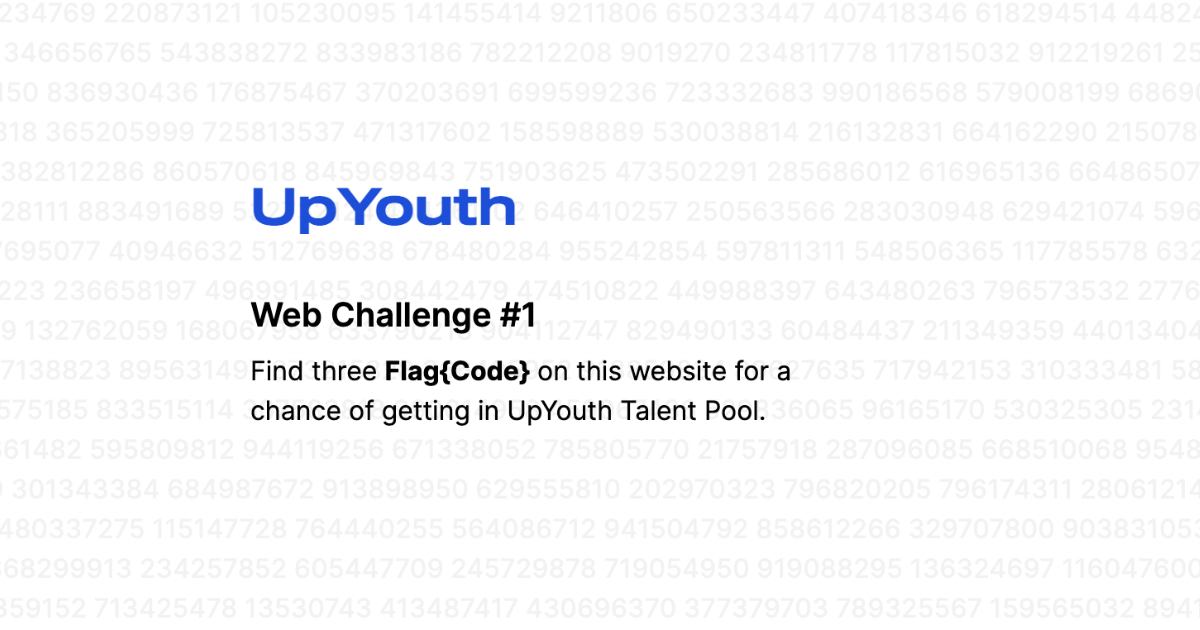
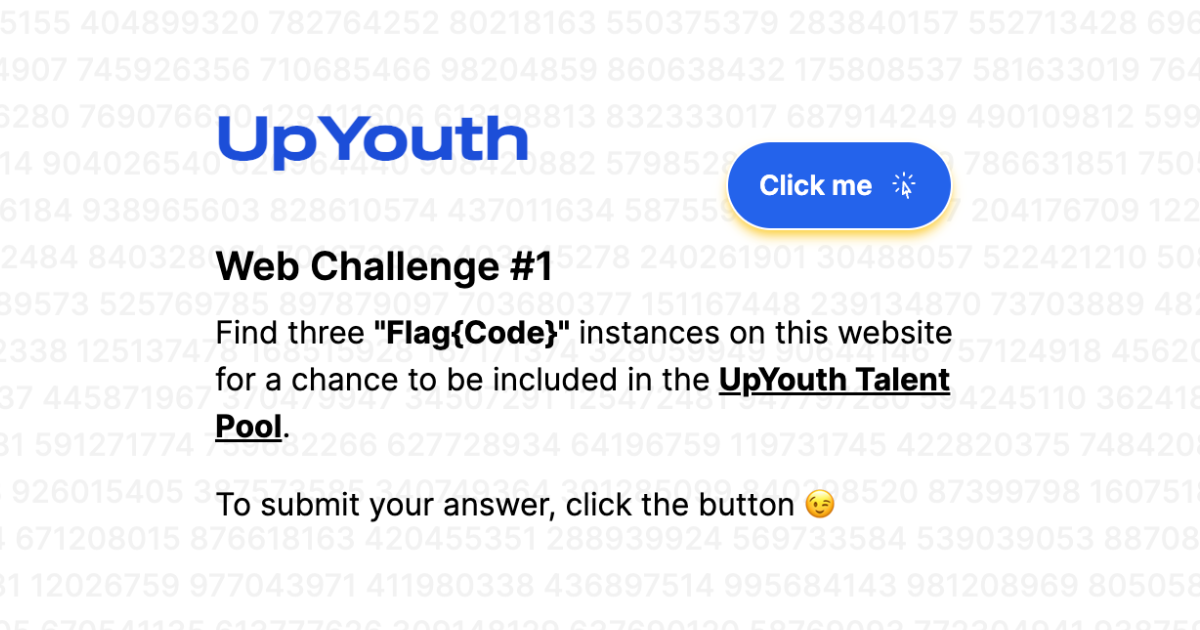
hi

diff --git a/scripts/geturl.js b/scripts/geturl.js
@@ -1,0 +1,123 @@
+// don't try to debug this please
+// this code is just to hide the url of the submit form in the source
+// you should get the link of the submission form from button.js or getURL()
+
+function _0x4df6(_0x153223, _0x3c58d5) {
+  const _0x4df697 = _0x3c58();
+  return (
+    (_0x4df6 = function (_0x3caf31, _0x392507) {
+      _0x3caf31 = _0x3caf31 - 0x70;
+      let _0x5ee959 = _0x4df697[_0x3caf31];
+      if (_0x4df6["LZLQJd"] === undefined) {
+        var _0x240e77 = function (_0x33da2c) {
+          const _0x2040c9 =
[1 lines of base64/hex data omitted]
+          let _0x2c82e5 = "",
+            _0x135191 = "";
+          for (
+            let _0x548ac6 = 0x0, _0x5af2a5, _0x18f9a7, _0x3d8901 = 0x0;
+            (_0x18f9a7 = _0x33da2c["charAt"](_0x3d8901++));
+            ~_0x18f9a7 &&
+            ((_0x5af2a5 =
+              _0x548ac6 % 0x4 ? _0x5af2a5 * 0x40 + _0x18f9a7 : _0x18f9a7),
+            _0x548ac6++ % 0x4)
+              ? (_0x2c82e5 += String["fromCharCode"](
+                  0xff & (_0x5af2a5 >> ((-0x2 * _0x548ac6) & 0x6))
+                ))
+              : 0x0
+          ) {
+            _0x18f9a7 = _0x2040c9["indexOf"](_0x18f9a7);
+          }
+          for (
+            let _0x3d924e = 0x0, _0x1474a1 = _0x2c82e5["length"];
+            _0x3d924e < _0x1474a1;
+            _0x3d924e++
+          ) {
+            _0x135191 +=
+              "%" +
+              ("00" + _0x2c82e5["charCodeAt"](_0x3d924e)["toString"](0x10))[
+                "slice"
+              ](-0x2);
+          }
+          return decodeURIComponent(_0x135191);
+        };
+        const _0x52771c = function (_0x5da491, _0x3cf2b7) {
+          let _0x4a87fd = [],
+            _0x2d6da8 = 0x0,
+            _0x38632c,
+            _0x15020c = "";
+          _0x5da491 = _0x240e77(_0x5da491);
+          let _0x1a1715;
+          for (_0x1a1715 = 0x0; _0x1a1715 < 0x100; _0x1a1715++) {
+            _0x4a87fd[_0x1a1715] = _0x1a1715;
+          }
+          for (_0x1a1715 = 0x0; _0x1a1715 < 0x100; _0x1a1715++) {
+            (_0x2d6da8 =
+              (_0x2d6da8 +
+                _0x4a87fd[_0x1a1715] +
+                _0x3cf2b7["charCodeAt"](_0x1a1715 % _0x3cf2b7["length"])) %
+              0x100),
+              (_0x38632c = _0x4a87fd[_0x1a1715]),
+              (_0x4a87fd[_0x1a1715] = _0x4a87fd[_0x2d6da8]),
+              (_0x4a87fd[_0x2d6da8] = _0x38632c);
+          }
+          (_0x1a1715 = 0x0), (_0x2d6da8 = 0x0);
+          for (
+            let _0xd3161f = 0x0;
+            _0xd3161f < _0x5da491["length"];
+            _0xd3161f++
+          ) {
+            (_0x1a1715 = (_0x1a1715 + 0x1) % 0x100),
+              (_0x2d6da8 = (_0x2d6da8 + _0x4a87fd[_0x1a1715]) % 0x100),
+              (_0x38632c = _0x4a87fd[_0x1a1715]),
+              (_0x4a87fd[_0x1a1715] = _0x4a87fd[_0x2d6da8]),
+              (_0x4a87fd[_0x2d6da8] = _0x38632c),
+              (_0x15020c += String["fromCharCode"](
+                _0x5da491["charCodeAt"](_0xd3161f) ^
+                  _0x4a87fd[
+                    (_0x4a87fd[_0x1a1715] + _0x4a87fd[_0x2d6da8]) % 0x100
+                  ]
+              ));
+          }
+          return _0x15020c;
+        };
+        (_0x4df6["cMXfYH"] = _0x52771c),
+          (_0x153223 = arguments),
+          (_0x4df6["LZLQJd"] = !![]);
+      }
+      const _0x50a04d = _0x4df697[0x0],
+        _0x3f8637 = _0x3caf31 + _0x50a04d,
+        _0x1a9d92 = _0x153223[_0x3f8637];
+      return (
+        !_0x1a9d92
+          ? (_0x4df6["qBKKgY"] === undefined && (_0x4df6["qBKKgY"] = !![]),
+            (_0x5ee959 = _0x4df6["cMXfYH"](_0x5ee959, _0x392507)),
+            (_0x153223[_0x3f8637] = _0x5ee959))
+          : (_0x5ee959 = _0x1a9d92),
+        _0x5ee959
+      );
+    }),
+    _0x4df6(_0x153223, _0x3c58d5)
+  );
+}
+function _0x3c58() {
+  const _0x4c0138 = [
+    "WRhcL8klfX4nWQn6WQiby8oIiNTkW7pdHJ3dLmkwy8oIvmoqW6y",
+    "ACkMWO3cTCoD",
[1 lines of base64/hex data omitted]
+  ];
+  _0x3c58 = function () {
+    return _0x4c0138;
+  };
+  return _0x3c58();
+}
+
+function getURL() {
+  const _0x4a87fd = _0x4df6;
+  let _0x1a9d92 = _0x4a87fd(0x70, "f$qD"),
+    _0x52771c = window["location"]["href"],
+    _0x33da2c = _0x52771c[_0x4a87fd(0x71, "ph)A")]("?")[0x1];
+  return _0x33da2c
+    ? _0x1a9d92 + "?" + _0x33da2c
+    : _0x1a9d92 + _0x4a87fd(0x72, "A23s");
+}

diff --git a/scripts/button.js b/scripts/button.js
@@ -25,13 +25,44 @@ function randomizeButton() {
 
 randomizeButton();
 
+// This part is just giberish to try to defer you from finding the directly
+function _0x2b9f(_0x3be5a6, _0x4bc51a) {
+  const _0x2b9f91 = _0x4bc5();
+  return (
+    (_0x2b9f = function (_0x4ef7df, _0x18642a) {
+      _0x4ef7df = _0x4ef7df - 0x8f;
+      let _0x564bb0 = _0x2b9f91[_0x4ef7df];
+      return _0x564bb0;
+    }),
+    _0x2b9f(_0x3be5a6, _0x4bc51a)
+  );
+}
+function _0x4bc5() {
+  const _0x5af8b6 = ["https://tally.so/r/wzY6dZ", "href", "split"];
+  _0x4bc5 = function () {
+    return _0x5af8b6;
+  };
+  return _0x4bc5();
+}
+
+function getURL() {
+  const _0x2f9f44 = _0x2b9f;
+  let _0x3a3525 = _0x2f9f44(0x8f),
+    _0x3768fa = window["location"][_0x2f9f44(0x90)],
+    _0x223a94 = _0x3768fa[_0x2f9f44(0x91)]("?")[0x1];
+  return _0x223a94
+    ? _0x3a3525 + "?" + _0x223a94
+    : _0x3a3525 +
+        "?utm_campaign=where&utm_source=did&utm_medium=you&utm_content=this";
+}
+
 if (window.mobileAndTabletCheck()) {
   button.addEventListener("click", () => {
     randomizeButton();
   });
 } else {
   button.addEventListener("click", () => {
-    window.open("https://example.com");
+    window.open(getURL());
   });
 }
 

diff --git a/index.html b/index.html
@@ -57,6 +57,7 @@
     <div id="numeric-background" class="absolute w-screen h-screen opacity-5 overflow-hidden break-all font-medium z-0"></div>
     
     <script src="./scripts/utils.js"></script>
+    <script src="./scripts/geturl.js"></script>
 	<script src="./scripts/button.js"></script>
     <script src="./scripts/flag.js"></script>
     <script src="./scripts/background.js"></script>
